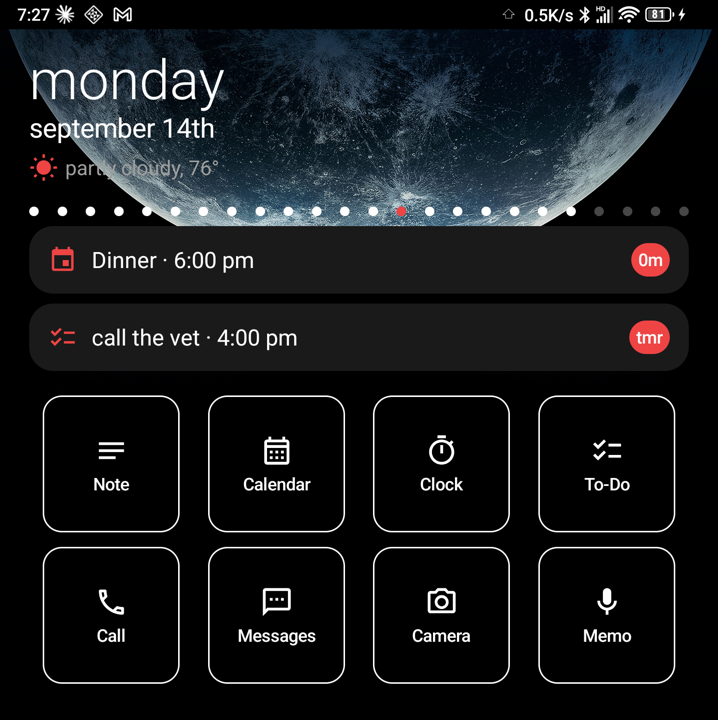
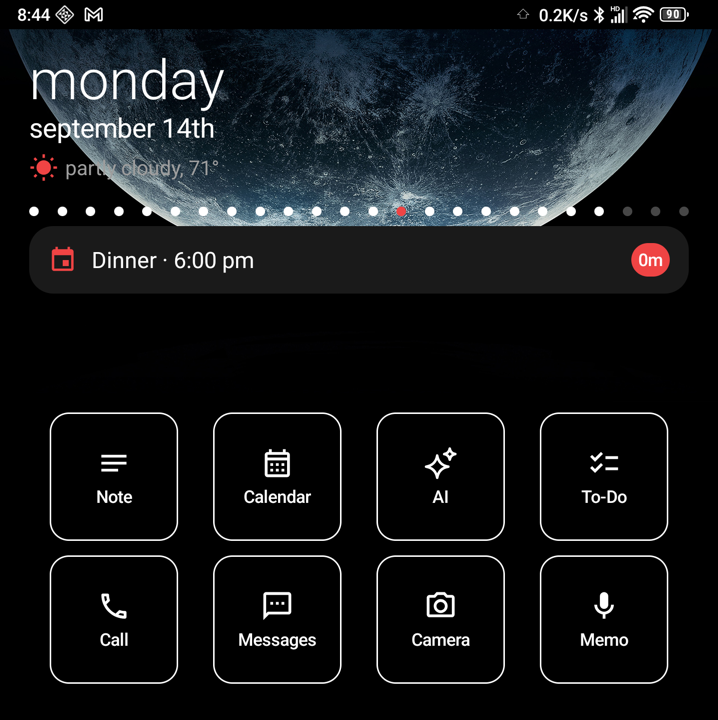
Replace the Clock tile with an AI tile that opens the default assistant
- The third default tile is now "AI", with a big and a small sparkle.
  Tapping it opens the app set as the phone's Digital assistant, read
  from the assistant setting; ACTION_ASSIST / VOICE_COMMAND are the
  fallbacks, then the app picker.
- The action keeps its saved name, so existing tiles carry over, and
  saved built-in tiles now always show their current label.
- Icon packs match it by assistant/gemini/sparkle.
- Updated the README and home screenshot.

diff --git a/app/src/main/java/com/vibelauncher/app/util/IntentDefaults.kt b/app/src/main/java/com/vibelauncher/app/util/IntentDefaults.kt
@@ -5,7 +5,6 @@ import android.content.ComponentName
 import android.content.Context
 import android.content.Intent
 import android.net.Uri
-import android.provider.AlarmClock
 import android.provider.CalendarContract
 import android.provider.MediaStore
 import android.provider.Telephony
@@ -56,7 +55,7 @@ object IntentDefaults {
     fun defaultTiles(): List<Tile> = listOf(
         Tile(0, "Note", "builtin:note", TileTarget.BuiltIn(BuiltInAction.NOTE)),
         Tile(1, "Calendar", "builtin:event", TileTarget.BuiltIn(BuiltInAction.EVENT)),
-        Tile(2, "Clock", "builtin:timer", TileTarget.BuiltIn(BuiltInAction.TIMER)),
+        Tile(2, "AI", "builtin:assistant", TileTarget.BuiltIn(BuiltInAction.ASSISTANT)),
         Tile(3, "To-Do", "builtin:todo", TileTarget.BuiltIn(BuiltInAction.TODO)),
         Tile(4, "Call", "builtin:call", TileTarget.BuiltIn(BuiltInAction.CALL)),
         Tile(5, "Messages", "builtin:message", TileTarget.BuiltIn(BuiltInAction.MESSAGE)),
@@ -73,22 +72,17 @@ object IntentDefaults {
         // insertCalendarEvent below) - no title/time prefilled here since this is the tile
         // tap path, not a Vibe Bar submission.
         BuiltInAction.EVENT -> Intent(Intent.ACTION_INSERT).setData(CalendarContract.Events.CONTENT_URI)
-        BuiltInAction.TIMER -> {
-            // Jump straight to the Clock app's Timer tab where supported (API 30+ AOSP/Google
-            // Clock and most derivatives); ACTION_SET_TIMER is the next-best fallback (opens the
-            // Timer tab via a "set a timer" flow on older or non-standard Clock apps); if neither
-            // resolves, fall back to just opening the Clock app's own main screen, identified via
-            // ACTION_SHOW_ALARMS (a system intent every Clock app has supported since API 1) so we
-            // land in the same app instead of guessing a package name.
-            val showTimers = Intent(AlarmClock.ACTION_SHOW_TIMERS)
-            val setTimer = Intent(AlarmClock.ACTION_SET_TIMER)
-            when {
-                showTimers.resolveActivity(context.packageManager) != null -> showTimers
-                setTimer.resolveActivity(context.packageManager) != null -> setTimer
-                else -> Intent(AlarmClock.ACTION_SHOW_ALARMS)
-                    .resolveActivity(context.packageManager)?.packageName
-                    ?.let { context.packageManager.getLaunchIntentForPackage(it) }
-            }
+        BuiltInAction.ASSISTANT -> {
+            // Opens the app itself for whichever assistant the phone has set (Gemini, ChatGPT,
+            // Claude...). ACTION_ASSIST alone isn't enough: with more than one assistant
+            // installed it lands on a chooser rather than the default. If the default can't be
+            // read, fall back to those generic intents; with neither, null opens the app picker.
+            val assist = Intent(Intent.ACTION_ASSIST)
+            val voiceCommand = Intent(Intent.ACTION_VOICE_COMMAND)
+            val pm = context.packageManager
+            defaultAssistantPackage(context)?.let { pm.getLaunchIntentForPackage(it) }
+                ?: assist.takeIf { it.resolveActivity(pm) != null }
+                ?: voiceCommand.takeIf { it.resolveActivity(pm) != null }
         }
         BuiltInAction.CALL -> Intent(Intent.ACTION_DIAL)
         BuiltInAction.MESSAGE -> {
@@ -107,6 +101,18 @@ object IntentDefaults {
         BuiltInAction.CAMERA -> Intent(MediaStore.INTENT_ACTION_STILL_IMAGE_CAMERA)
         BuiltInAction.MEMO -> Intent(MediaStore.Audio.Media.RECORD_SOUND_ACTION)
     }
+
+    /** The package holding the phone's Digital assistant setting. RoleManager won't tell other
+     *  apps who holds a role, but the setting Android keeps alongside it names the assistant's
+     *  component - "assistant", or "voice_interaction_service" for voice-first ones. Null if
+     *  neither is set or readable. */
+    private fun defaultAssistantPackage(context: Context): String? = runCatching {
+        listOf("assistant", "voice_interaction_service").firstNotNullOfOrNull { key ->
+            android.provider.Settings.Secure.getString(context.contentResolver, key)
+                ?.takeIf { it.isNotBlank() }
+                ?.let { ComponentName.unflattenFromString(it)?.packageName }
+        }
+    }.getOrNull()
 
     /** Best-effort package name for notification-badge lookups. Reassigned tiles resolve
      *  trivially; built-in actions with a fixed default handler (Message, Call) resolve

diff --git a/app/src/main/java/com/vibelauncher/app/ui/home/components/AiSparklesIcon.kt b/app/src/main/java/com/vibelauncher/app/ui/home/components/AiSparklesIcon.kt
@@ -1,0 +1,44 @@
+package com.vibelauncher.app.ui.home.components
+
+import androidx.compose.ui.graphics.Color
+import androidx.compose.ui.graphics.SolidColor
+import androidx.compose.ui.graphics.StrokeCap
+import androidx.compose.ui.graphics.StrokeJoin
+import androidx.compose.ui.graphics.vector.ImageVector
+import androidx.compose.ui.graphics.vector.PathBuilder
+import androidx.compose.ui.graphics.vector.path
+import androidx.compose.ui.unit.dp
+
+/** The AI tile's glyph: a big four-point sparkle with a small one at its upper right, drawn
+ *  as outlines so it sits at the same weight as the Material Outlined icons beside it. */
+val AiSparkles: ImageVector by lazy {
+    ImageVector.Builder(
+        name = "AiSparkles",
+        defaultWidth = 24.dp,
+        defaultHeight = 24.dp,
+        viewportWidth = 24f,
+        viewportHeight = 24f
+    ).apply {
+        path(
+            fill = null,
+            stroke = SolidColor(Color.Black),
+            strokeLineWidth = 1.8f,
+            strokeLineCap = StrokeCap.Round,
+            strokeLineJoin = StrokeJoin.Round
+        ) {
+            sparkle(cx = 9.5f, cy = 14.5f, r = 8f)
+            sparkle(cx = 18.5f, cy = 5.5f, r = 4f)
+        }
+    }.build()
+}
+
+/** Four points joined by curves bowed in toward the centre, which gives the pinched ✦ look. */
+private fun PathBuilder.sparkle(cx: Float, cy: Float, r: Float) {
+    val k = r * 0.14f
+    moveTo(cx, cy - r)
+    quadTo(cx + k, cy - k, cx + r, cy)
+    quadTo(cx + k, cy + k, cx, cy + r)
+    quadTo(cx - k, cy + k, cx - r, cy)
+    quadTo(cx - k, cy - k, cx, cy - r)
+    close()
+}

diff --git a/app/src/main/java/com/vibelauncher/app/data/tiles/TileRepository.kt b/app/src/main/java/com/vibelauncher/app/data/tiles/TileRepository.kt
@@ -4,6 +4,7 @@ import android.content.Context
 import androidx.datastore.preferences.core.Preferences
 import androidx.datastore.preferences.core.edit
 import com.vibelauncher.app.model.Tile
+import com.vibelauncher.app.model.TileTarget
 import com.vibelauncher.app.util.IntentDefaults
 import kotlinx.coroutines.flow.Flow
 import kotlinx.coroutines.flow.first
@@ -17,8 +18,17 @@ class TileRepository(private val context: Context) {
     private val listSerializer = ListSerializer(Tile.serializer())
 
     val tiles: Flow<List<Tile>> = context.tilesDataStore.data.map { prefs ->
-        prefs[TILES_LIST_KEY]?.let { runCatching { json.decodeFromString(listSerializer, it) }.getOrNull() }
-            ?: legacyOrDefault(prefs)
+        (prefs[TILES_LIST_KEY]?.let { runCatching { json.decodeFromString(listSerializer, it) }.getOrNull() }
+            ?: legacyOrDefault(prefs)).map(::withCurrentBuiltInLabel)
+    }
+
+    /** Built-in tiles save their label, but it isn't something people can edit - so show the
+     *  current one. That's how a saved "Clock" tile reads "AI" now that the slot changed. */
+    private fun withCurrentBuiltInLabel(tile: Tile): Tile {
+        val target = tile.target as? TileTarget.BuiltIn ?: return tile
+        val current = IntentDefaults.defaultTiles().firstOrNull { (it.target as? TileTarget.BuiltIn)?.kind == target.kind }
+            ?: return tile
+        return tile.copy(label = current.label, iconKey = current.iconKey)
     }
 
     /** Reads the OLD per-slot keys if any are present (an existing user's current setup),

diff --git a/app/src/main/java/com/vibelauncher/app/ui/home/components/TileIcons.kt b/app/src/main/java/com/vibelauncher/app/ui/home/components/TileIcons.kt
@@ -8,7 +8,6 @@ import androidx.compose.material.icons.outlined.Mic
 import androidx.compose.material.icons.outlined.Notes
 import androidx.compose.material.icons.outlined.Phone
 import androidx.compose.material.icons.outlined.Sms
-import androidx.compose.material.icons.outlined.Timer
 import androidx.compose.ui.graphics.vector.ImageVector
 import com.vibelauncher.app.model.BuiltInAction
 
@@ -16,7 +15,7 @@ import com.vibelauncher.app.model.BuiltInAction
 fun builtInIcon(action: BuiltInAction): ImageVector = when (action) {
     BuiltInAction.NOTE -> Icons.Outlined.Notes
     BuiltInAction.EVENT -> Icons.Outlined.CalendarMonth
-    BuiltInAction.TIMER -> Icons.Outlined.Timer
+    BuiltInAction.ASSISTANT -> AiSparkles
     BuiltInAction.TODO -> Icons.Outlined.Checklist
     BuiltInAction.CALL -> Icons.Outlined.Phone
     BuiltInAction.MESSAGE -> Icons.Outlined.Sms

diff --git a/app/src/main/java/com/vibelauncher/app/data/icontheme/IconThemeRepository.kt b/app/src/main/java/com/vibelauncher/app/data/icontheme/IconThemeRepository.kt
@@ -32,7 +32,8 @@ private val ICON_PACK_CATEGORIES = listOf(
 private val BUILT_IN_KEYWORDS: Map<BuiltInAction, List<String>> = mapOf(
     BuiltInAction.NOTE to listOf("note"),
     BuiltInAction.EVENT to listOf("event", "calendar"),
-    BuiltInAction.TIMER to listOf("timer", "alarm", "clock"),
+    // No bare "ai" - it's inside "mail", "rain", "chair"...
+    BuiltInAction.ASSISTANT to listOf("assistant", "gemini", "sparkle"),
     BuiltInAction.TODO to listOf("todo", "checklist", "task"),
     BuiltInAction.CALL to listOf("call", "phone", "dialer"),
     // "messaging" deliberately listed alongside "message" - some packs (e.g. drawables

diff --git a/app/src/main/java/com/vibelauncher/app/model/TileTarget.kt b/app/src/main/java/com/vibelauncher/app/model/TileTarget.kt
@@ -1,9 +1,21 @@
 package com.vibelauncher.app.model
 
+import kotlinx.serialization.SerialName
 import kotlinx.serialization.Serializable
 
+@Serializable
 enum class BuiltInAction {
-    NOTE, EVENT, TIMER, TODO, CALL, MESSAGE, CAMERA, MEMO
+    NOTE,
+    EVENT,
+    /** Opens the phone's default AI assistant. Saved as "TIMER" - this slot was the Clock
+     *  tile before it became AI, and keeping the stored name means tiles people already set
+     *  up still decode. */
+    @SerialName("TIMER") ASSISTANT,
+    TODO,
+    CALL,
+    MESSAGE,
+    CAMERA,
+    MEMO
 }
 
 @Serializable

diff --git a/README.md b/README.md
@@ -53,7 +53,7 @@ You can come back to either any time from **Settings → Help** ("how to use vib
   - This uses Usage Access, and all of it stays on the phone.
 - **Calendar card**: leads with your current or next event. Tap it to expand the whole day.
 - **To-Do card**: leads with whatever is due next, with a due badge (`45m`, `today`, `tmr`, `late`).
-- **8 tiles**: any installed app or one of Vibe's own actions (To-Do, Notes, Calendar, Clock, Camera and more). Long-press a tile to swap it. Tiles show a badge when their app has a notification.
+- **8 tiles**: any installed app or one of Vibe's own actions (To-Do, Notes, Calendar, AI, Camera and more). The **AI** tile opens whichever assistant app is your phone's default (Gemini, ChatGPT, Claude…). Long-press a tile to swap it. Tiles show a badge when their app has a notification.
 - **Icon borders**: an optional outline around each tile.
   - Steps 1–5 grow a square up to the biggest size that fits.
   - Steps 6–10 widen the tiles without making them taller, until neighbors touch at 10.
